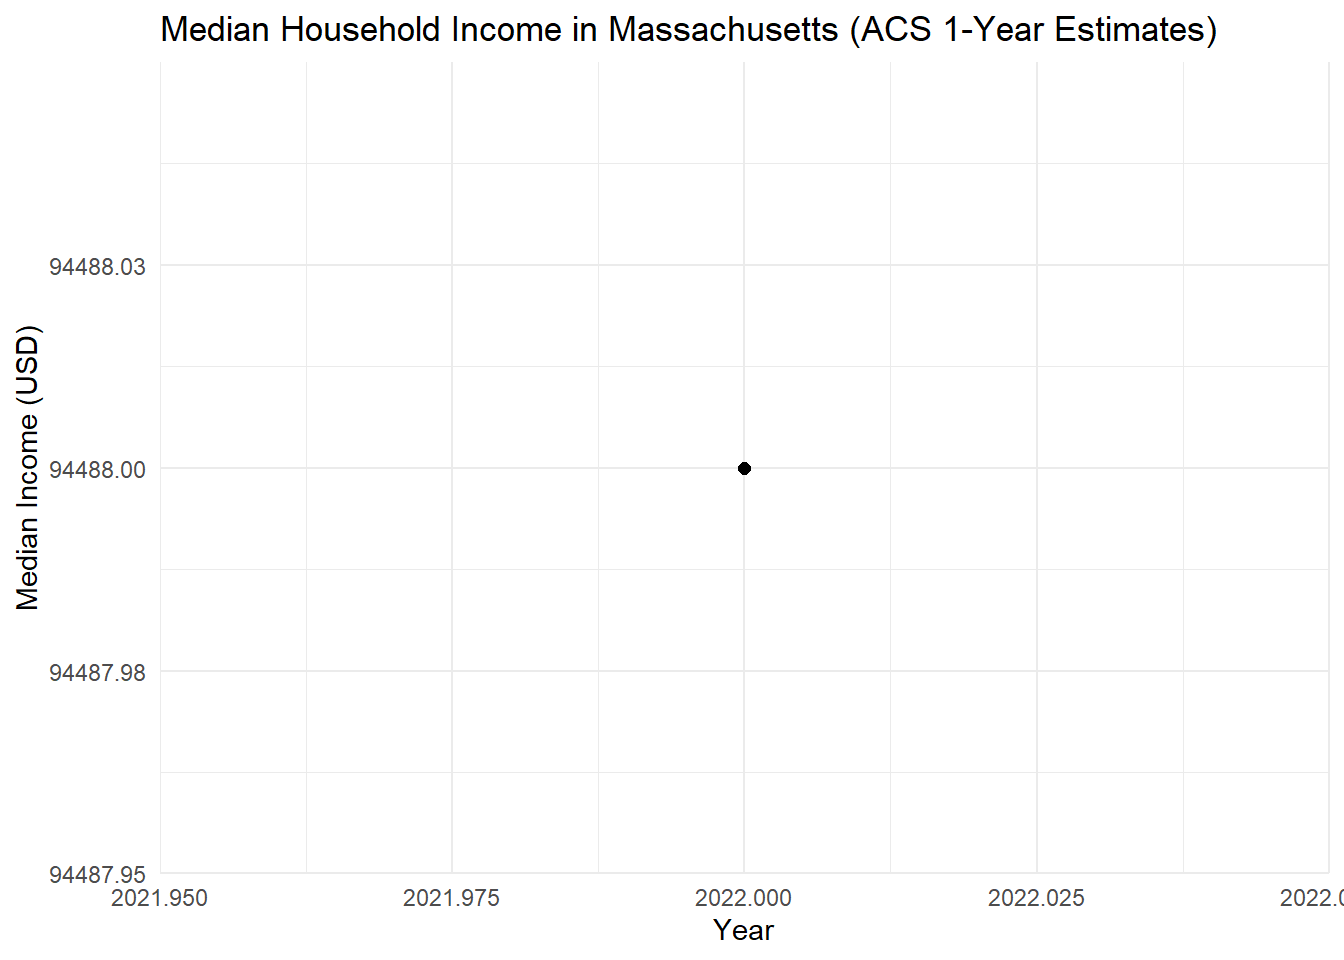
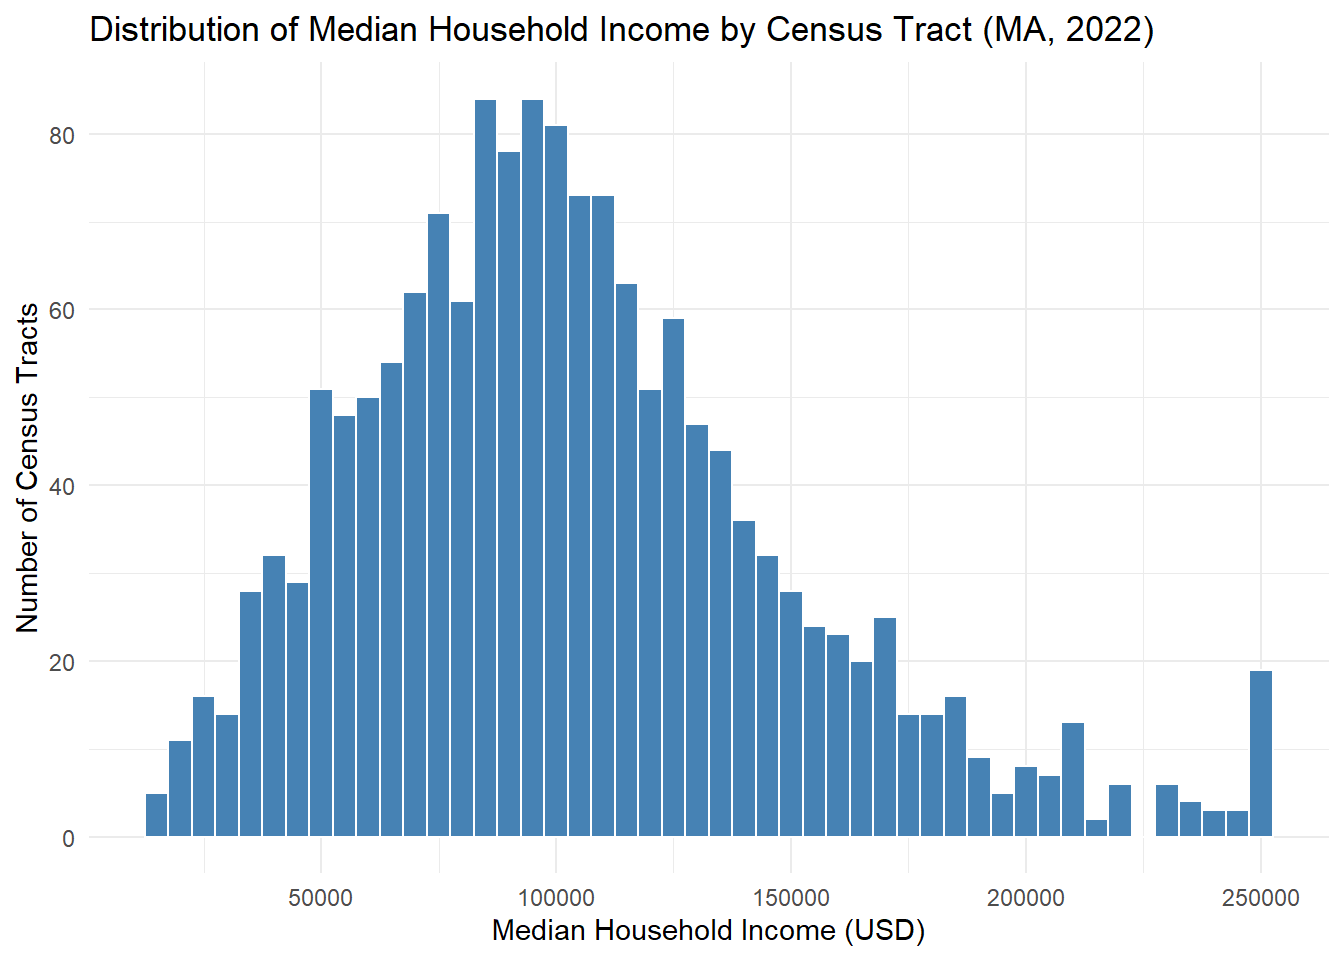
Built site for gh-pages

diff --git a/about.html b/about.html
@@ -210,7 +210,7 @@ ul.task-list li input[type="checkbox"] {
     }
       var localhostRegex = new RegExp(/^(?:http|https):\/\/localhost\:?[0-9]*\//);
       var mailtoRegex = new RegExp(/^mailto:/);
-        var filterRegex = new RegExp('/' + window.location.host + '/');
+        var filterRegex = new RegExp("https:\/\/skawakamNY\.github\.io\/class-2025-06-30\/");
       var isInternal = (href) => {
           return filterRegex.test(href) || localhostRegex.test(href) || mailtoRegex.test(href);
       }

diff --git a/index.html b/index.html
@@ -218,7 +218,7 @@ ul.task-list li input[type="checkbox"] {
     }
       var localhostRegex = new RegExp(/^(?:http|https):\/\/localhost\:?[0-9]*\//);
       var mailtoRegex = new RegExp(/^mailto:/);
-        var filterRegex = new RegExp('/' + window.location.host + '/');
+        var filterRegex = new RegExp("https:\/\/skawakamNY\.github\.io\/class-2025-06-30\/");
       var isInternal = (href) => {
           return filterRegex.test(href) || localhostRegex.test(href) || mailtoRegex.test(href);
       }
